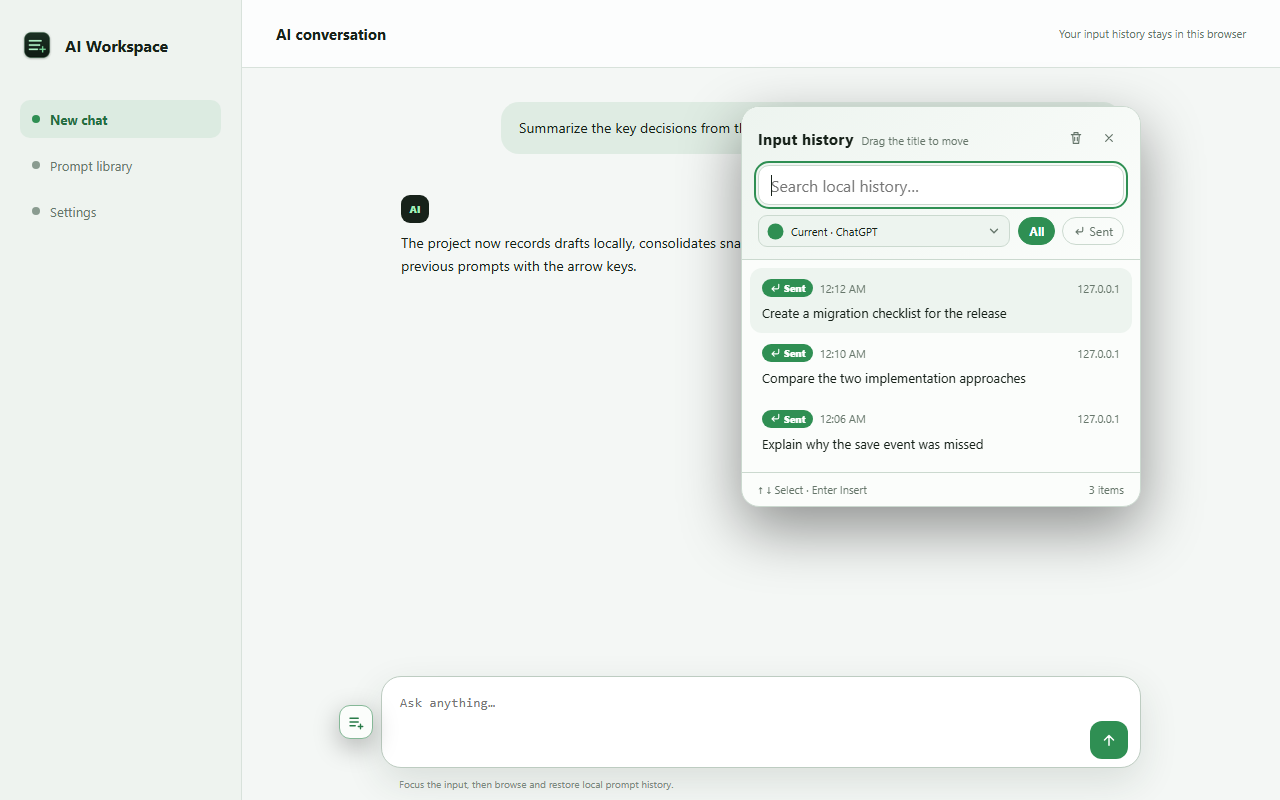
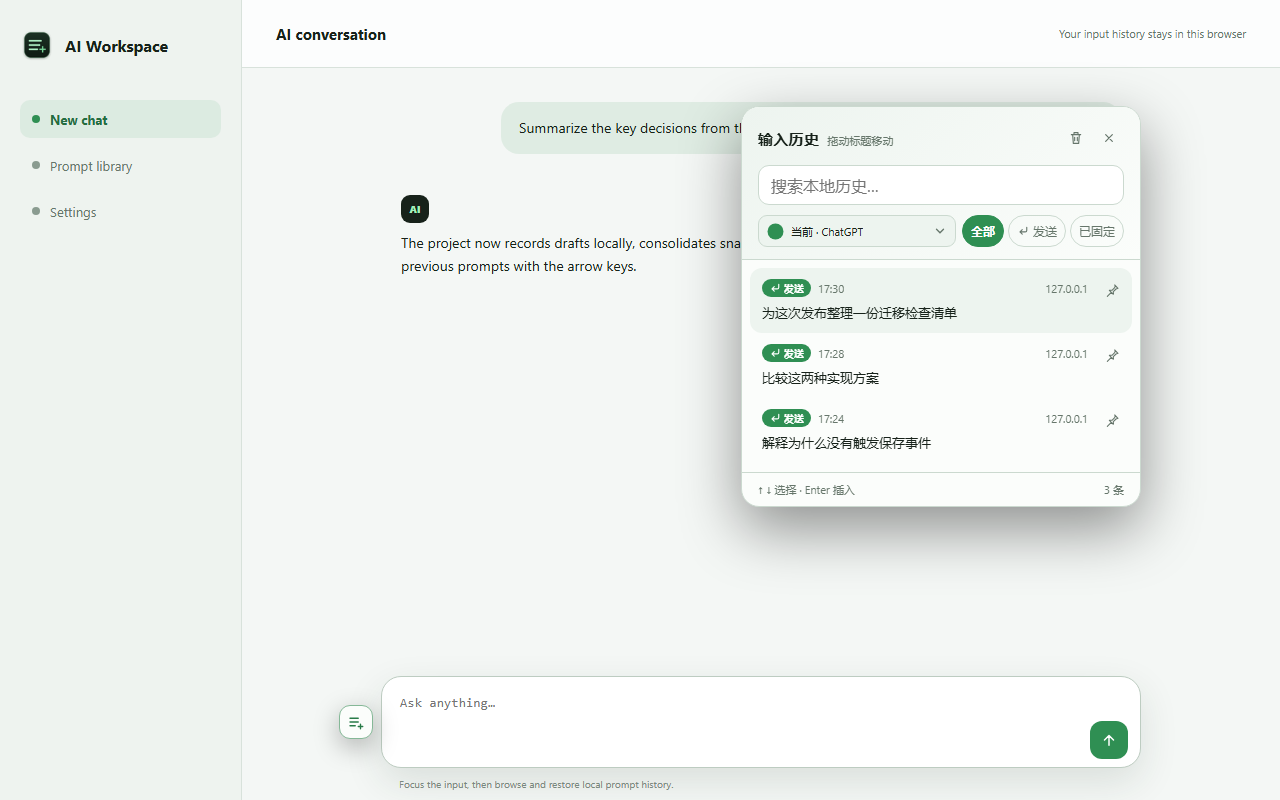
feat: 添加通知最低耗时并更新文档截图

diff --git a/tests/background-notification.test.js b/tests/background-notification.test.js
@@ -36,7 +36,7 @@ test("浏览器通知只包含截断后的问题摘要", async () => {
   const h = setup({ enabled: true, provider: "browser" });
   const result = await h.send({
     type: "AIH_REQUEST_COMPLETED",
-    event: { promptText: "这是一个需要在回复完成之后发送系统通知的很长很长的问题内容用于验证省略", durationMs: 1200, completedAt: Date.now() }
+    event: { promptText: "这是一个需要在回复完成之后发送系统通知的很长很长的问题内容用于验证省略", durationMs: 21_000, completedAt: Date.now() }
   });
   assert.equal(result.ok, true);
   assert.equal(h.notifications.length, 1);
@@ -60,7 +60,7 @@ test("请求计时按会话 URL 保存，换标签页重新打开仍可读取和
 
 test("第三方通知由后台发送且未开启时不会发送", async () => {
   const h = setup({ enabled: true, provider: "ntfy", ntfyUrl: "https://ntfy.sh", ntfyTopic: "my-topic" });
-  const result = await h.send({ type: "AIH_REQUEST_COMPLETED", event: { promptText: "处理完成", completedAt: Date.now(), durationMs: 2000 } });
+  const result = await h.send({ type: "AIH_REQUEST_COMPLETED", event: { promptText: "处理完成", completedAt: Date.now(), durationMs: 21_000 } });
   assert.equal(result.ok, true);
   assert.equal(h.requests.length, 1);
   assert.equal(h.requests[0].url, "https://ntfy.sh/my-topic");
@@ -68,7 +68,42 @@ test("第三方通知由后台发送且未开启时不会发送", async () => {
 
   const disabled = setup({ enabled: false, provider: "ntfy", ntfyUrl: "https://ntfy.sh", ntfyTopic: "my-topic" });
   const skipped = await disabled.send({ type: "AIH_REQUEST_COMPLETED", event: { promptText: "不会发送" } });
-  assert.equal(skipped.ok, false);
-  assert.match(skipped.error, /尚未开启|尚未保存/);
+  assert.equal(skipped.ok, true);
+  assert.equal(skipped.skipped, true);
+  assert.equal(skipped.reason, "disabled");
   assert.equal(disabled.requests.length, 0);
+});
+
+test("自动通知默认低于 20 秒跳过，达到阈值才发送", async () => {
+  const h = setup({ enabled: true, provider: "browser" });
+  const fast = await h.send({ type: "AIH_REQUEST_COMPLETED", event: { promptText: "快速回复", durationMs: 19_999, completedAt: Date.now() } });
+  assert.equal(fast.ok, true);
+  assert.equal(fast.skipped, true);
+  assert.equal(fast.reason, "below-min-duration");
+  assert.equal(fast.minDurationSeconds, 20);
+  assert.equal(h.notifications.length, 0);
+
+  const threshold = await h.send({ type: "AIH_REQUEST_COMPLETED", event: { promptText: "达到阈值", durationMs: 20_000, completedAt: Date.now() } });
+  assert.equal(threshold.ok, true);
+  assert.equal(h.notifications.length, 1);
+
+  const custom = setup({ enabled: true, provider: "browser", minDurationSeconds: 30 });
+  const customFast = await custom.send({ type: "AIH_REQUEST_COMPLETED", event: { promptText: "自定义阈值以下", durationMs: 29_999, completedAt: Date.now() } });
+  assert.equal(customFast.skipped, true);
+  assert.equal(custom.notifications.length, 0);
+  await custom.send({ type: "AIH_REQUEST_COMPLETED", event: { promptText: "自定义阈值边界", durationMs: 30_000, completedAt: Date.now() } });
+  assert.equal(custom.notifications.length, 1);
+});
+
+test("测试通知绕过最低耗时，但关闭总开关时仍拒绝发送", async () => {
+  const h = setup({ enabled: true, provider: "browser", minDurationSeconds: 120 });
+  const sent = await h.send({ type: "AIH_NOTIFICATION_TEST" });
+  assert.equal(sent.ok, true);
+  assert.equal(h.notifications.length, 1);
+
+  const disabled = setup({ enabled: false, provider: "browser", minDurationSeconds: 0 });
+  const rejected = await disabled.send({ type: "AIH_NOTIFICATION_TEST" });
+  assert.equal(rejected.ok, false);
+  assert.match(rejected.error, /尚未开启|尚未保存/);
+  assert.equal(disabled.notifications.length, 0);
 });

diff --git a/tests/popup-settings.test.js b/tests/popup-settings.test.js
@@ -43,7 +43,7 @@ function element() {
 test("修改自动快照秒数时无需关闭输入框即可立即保存", async () => {
   const elements = Object.fromEntries([
     "#historyLimit", "#sendLimit", "#snapshotSeconds", "#launcherEnabled", "#domainInput", "#trackRequestTime",
-    "#notifyEnabled", "#notifyProvider", "#testNotification", "#notifyBarkUrl", "#notifyServerChanKey", "#notifyPushPlusToken",
+    "#notifyEnabled", "#notifyProvider", "#notifyMinDurationSeconds", "#testNotification", "#notifyBarkUrl", "#notifyServerChanKey", "#notifyPushPlusToken",
     "#notifyNtfyUrl", "#notifyNtfyTopic", "#notifyGotifyUrl", "#notifyGotifyToken", "#notifyDingtalkWebhook", "#notifyFeishuWebhook", "#notifyWecomWebhook", "#notifyCustomMethod", "#notifyCustomUrl", "#notifyCustomHeaders", "#notifyCustomBody",
     "#domainList", "#domainForm", "#clear", "#status", "#totalCount", "#sendCount", "#draftCount",
     "#shortcutCapture", "#shortcutDisable", "#languageSelect", "#clearDialog", "#clearDialogError", "#cancelClear", "#confirmClear", "#extensionVersion"
@@ -54,7 +54,7 @@ test("修改自动快照秒数时无需关闭输入框即可立即保存", async
     async getSettings() {
       return {
         historyLimit: 100, sendLimit: 10, snapshotSeconds: 60, shortcut: "Ctrl+R", language: "zh-CN", launcherEnabled: true, trackRequestTime: false,
-        completionNotification: { enabled: false, provider: "browser", barkUrl: "", serverChanKey: "", pushPlusToken: "", ntfyUrl: "https://ntfy.sh", ntfyTopic: "", gotifyUrl: "", gotifyToken: "", dingtalkWebhook: "", feishuWebhook: "", wecomWebhook: "", customMethod: "POST", customUrl: "", customHeaders: "{}", customBody: '{"title":"{{title}}","message":"{{message}}"}' },
+        completionNotification: { enabled: false, provider: "browser", minDurationSeconds: 20, barkUrl: "", serverChanKey: "", pushPlusToken: "", ntfyUrl: "https://ntfy.sh", ntfyTopic: "", gotifyUrl: "", gotifyToken: "", dingtalkWebhook: "", feishuWebhook: "", wecomWebhook: "", customMethod: "POST", customUrl: "", customHeaders: "{}", customBody: '{"title":"{{title}}","message":"{{message}}"}' },
         customDomains: []
       };
     }
@@ -93,6 +93,8 @@ test("修改自动快照秒数时无需关闭输入框即可立即保存", async
   await vm.runInNewContext(source, context);
 
   assert.equal(elements["#notifyProvider"].disabled, true);
+  assert.equal(elements["#notifyMinDurationSeconds"].disabled, true);
+  assert.equal(elements["#notifyMinDurationSeconds"].value, 20);
   assert.equal(elements["#testNotification"].disabled, true);
   assert.equal(elements["#notifyNtfyUrl"].disabled, true);
 
@@ -131,13 +133,20 @@ test("修改自动快照秒数时无需关闭输入框即可立即保存", async
   assert.equal(saves.at(-1).completionNotification.enabled, true);
   assert.equal(saves.at(-1).completionNotification.provider, "browser");
   assert.equal(elements["#notifyProvider"].disabled, false);
+  assert.equal(elements["#notifyMinDurationSeconds"].disabled, false);
   assert.equal(elements["#testNotification"].disabled, false);
   assert.equal(elements["#notifyNtfyUrl"].disabled, false);
+
+  elements["#notifyMinDurationSeconds"].value = "30";
+  elements["#notifyMinDurationSeconds"].listeners.change();
+  await new Promise((resolve) => setImmediate(resolve));
+  assert.equal(saves.at(-1).completionNotification.minDurationSeconds, "30");
 
   elements["#notifyEnabled"].checked = false;
   elements["#notifyEnabled"].listeners.change();
   await new Promise((resolve) => setImmediate(resolve));
   assert.equal(elements["#notifyProvider"].disabled, true);
+  assert.equal(elements["#notifyMinDurationSeconds"].disabled, true);
   assert.equal(elements["#testNotification"].disabled, true);
   assert.equal(elements["#notifyNtfyUrl"].disabled, true);
 

diff --git a/src/i18n.js b/src/i18n.js
@@ -8,6 +8,7 @@
       "timing.running": "请求已等待 {seconds} 秒，点击打开输入历史", "timing.duration": "总耗时 {seconds} 秒", "timing.replyAt": "回复完成 {time}",
       "timing.pending": "尚未记录回复完成", "timing.cancelled": "计时已中止", "timing.failed": "请求异常", "timing.timeout": "未检测到回复完成",
       "notify.title": "回复完成通知", "notify.enable": "完成后发送通知", "notify.hint": "回复完成后通知；默认内容为问题前 32 个字",
+      "notify.minDuration": "通知最低耗时（秒）", "notify.minDurationHint": "低于此耗时不自动发送通知",
       "notify.provider": "通知方式", "notify.browser": "浏览器通知", "notify.dingtalk": "钉钉机器人", "notify.feishu": "飞书机器人", "notify.wecom": "企业微信机器人", "notify.custom": "自定义请求", "notify.browserHint": "使用系统通知，不发送到第三方。",
       "notify.method": "请求方法", "notify.variables": "模板变量：{{title}}、{{message}}、{{question}}、{{duration}}、{{completedAt}}、{{pageUrl}}",
       "notify.robotHint": "直接粘贴群机器人完整 Webhook 地址。Webhook 等同发送凭据，请勿公开。",
@@ -46,6 +47,7 @@
       "timing.running": "Waiting {seconds} seconds. Open input history", "timing.duration": "Total {seconds}s", "timing.replyAt": "Completed {time}",
       "timing.pending": "Reply completion not recorded", "timing.cancelled": "Timing stopped", "timing.failed": "Request error", "timing.timeout": "Reply completion not detected",
       "notify.title": "Completion notifications", "notify.enable": "Notify when completed", "notify.hint": "Notify after the reply finishes; body defaults to the first 32 characters of the prompt",
+      "notify.minDuration": "Minimum duration (seconds)", "notify.minDurationHint": "Replies faster than this do not trigger automatic notifications",
       "notify.provider": "Notification method", "notify.browser": "Browser notification", "notify.dingtalk": "DingTalk robot", "notify.feishu": "Feishu robot", "notify.wecom": "WeCom robot", "notify.custom": "Custom request", "notify.browserHint": "Uses the system notification service and sends nothing to a third party.",
       "notify.method": "Request method", "notify.variables": "Template variables: {{title}}, {{message}}, {{question}}, {{duration}}, {{completedAt}}, {{pageUrl}}",
       "notify.robotHint": "Paste the full group-robot Webhook URL. Treat it as a sending credential and do not publish it.",

diff --git a/background.js b/background.js
@@ -32,13 +32,14 @@ chrome.runtime.onMessage.addListener((message, sender, sendResponse) => {
   }
 
   if (message?.type === "AIH_REQUEST_COMPLETED" || message?.type === "AIH_NOTIFICATION_TEST") {
-    const event = message.type === "AIH_NOTIFICATION_TEST" ? {
+    const isTest = message.type === "AIH_NOTIFICATION_TEST";
+    const event = isTest ? {
       promptText: "这是一条 ChatGPT 回复完成测试通知",
       durationMs: 3200, completedAt: Date.now(), pageUrl: "https://chatgpt.com/"
     } : message.event;
-    deliverConfiguredNotification(event)
+    deliverConfiguredNotification(event, { ignoreMinimumDuration: isTest })
       .then((result) => {
-        if (result?.skipped) throw new Error("完成通知尚未开启或设置尚未保存");
+        if (isTest && result?.skipped) throw new Error("完成通知尚未开启或设置尚未保存");
         sendResponse({ ok: true, ...result });
       })
       .catch((error) => sendResponse({ ok: false, error: error?.message || String(error) }));
@@ -116,10 +117,15 @@ async function handleTimingSessionMessage(message) {
   return task;
 }
 
-async function deliverConfiguredNotification(event, force = false) {
+async function deliverConfiguredNotification(event, { ignoreMinimumDuration = false } = {}) {
   const settings = await storageGet("aiInputHistorySettings") || {};
   const config = settings.completionNotification || {};
-  if (!force && config.enabled !== true) return { skipped: true };
+  if (config.enabled !== true) return { skipped: true, reason: "disabled" };
+  const parsedMinimum = Number.parseInt(config.minDurationSeconds, 10);
+  const minDurationSeconds = Number.isFinite(parsedMinimum) ? Math.min(3600, Math.max(0, parsedMinimum)) : 20;
+  if (!ignoreMinimumDuration && Number.isFinite(event?.durationMs) && event.durationMs < minDurationSeconds * 1000) {
+    return { skipped: true, reason: "below-min-duration", minDurationSeconds };
+  }
   const model = globalThis.AIInputHistory?.notificationModel;
   if (!model) throw new Error("通知模块未加载");
   const delivery = model.buildDelivery(config, event || {}, settings.language);

diff --git a/popup/index.html b/popup/index.html
@@ -41,6 +41,7 @@
         <div class="notifications">
           <h3 data-i18n="notify.title">回复完成通知</h3>
           <div class="setting-row"><span><span data-i18n="notify.enable">完成后发送通知</span><small data-i18n="notify.hint">回复完成后通知；默认内容为问题前 32 个字</small></span><label class="switch"><input id="notifyEnabled" type="checkbox"><span aria-hidden="true"></span></label></div>
+      <label class="notify-row"><span><span data-i18n="notify.minDuration">通知最低耗时（秒）</span><small data-i18n="notify.minDurationHint">低于此耗时不自动发送通知</small></span><input id="notifyMinDurationSeconds" type="number" min="0" max="3600" step="1"></label>
       <label class="notify-row"><span data-i18n="notify.provider">通知方式</span><select id="notifyProvider"><option value="browser" data-i18n="notify.browser">浏览器通知</option><option value="bark">Bark</option><option value="serverchan">Server酱</option><option value="pushplus">PushPlus</option><option value="ntfy">ntfy</option><option value="gotify">Gotify</option><option value="dingtalk" data-i18n="notify.dingtalk">钉钉机器人</option><option value="feishu" data-i18n="notify.feishu">飞书机器人</option><option value="wecom" data-i18n="notify.wecom">企业微信机器人</option><option value="custom" data-i18n="notify.custom">自定义请求</option></select></label>
       <div id="notificationConfig" class="notification-config">
         <div data-notify-provider="browser"><p data-i18n="notify.browserHint">使用 Windows/macOS 浏览器系统通知，不发送到第三方。</p></div>

diff --git a/tests/history-store.test.js b/tests/history-store.test.js
@@ -75,10 +75,12 @@ test("设置值被限制在安全范围", () => {
   const settings = sanitizeSettings({ historyLimit: 9999, enterLimit: 0, snapshotMinutes: "5" });
   assert.deepEqual(JSON.parse(JSON.stringify(settings)), {
     historyLimit: 500, sendLimit: 1, snapshotSeconds: 300, shortcut: "Ctrl+R", language: "zh-CN", launcherEnabled: true, trackRequestTime: false,
-    completionNotification: { enabled: false, provider: "browser", barkUrl: "", serverChanKey: "", pushPlusToken: "", ntfyUrl: "https://ntfy.sh", ntfyTopic: "", gotifyUrl: "", gotifyToken: "", dingtalkWebhook: "", feishuWebhook: "", wecomWebhook: "", customMethod: "POST", customUrl: "", customHeaders: "{}", customBody: '{"title":"{{title}}","message":"{{message}}"}' },
+    completionNotification: { enabled: false, provider: "browser", minDurationSeconds: 20, barkUrl: "", serverChanKey: "", pushPlusToken: "", ntfyUrl: "https://ntfy.sh", ntfyTopic: "", gotifyUrl: "", gotifyToken: "", dingtalkWebhook: "", feishuWebhook: "", wecomWebhook: "", customMethod: "POST", customUrl: "", customHeaders: "{}", customBody: '{"title":"{{title}}","message":"{{message}}"}' },
     customDomains: []
   });
   assert.equal(sanitizeSettings({ snapshotSeconds: 5 }).snapshotSeconds, 5);
+  assert.equal(sanitizeSettings({ completionNotification: { minDurationSeconds: -5 } }).completionNotification.minDurationSeconds, 0);
+  assert.equal(sanitizeSettings({ completionNotification: { minDurationSeconds: 9999 } }).completionNotification.minDurationSeconds, 3600);
 });
 
 test("快捷键支持自定义、匹配和停用", () => {

diff --git a/popup/popup.js b/popup/popup.js
@@ -10,6 +10,7 @@
   const notifyProvider = document.querySelector("#notifyProvider");
   const testNotificationButton = document.querySelector("#testNotification");
   const notificationInputs = {
+    minDurationSeconds: "#notifyMinDurationSeconds",
     barkUrl: "#notifyBarkUrl", serverChanKey: "#notifyServerChanKey", pushPlusToken: "#notifyPushPlusToken",
     ntfyUrl: "#notifyNtfyUrl", ntfyTopic: "#notifyNtfyTopic", gotifyUrl: "#notifyGotifyUrl", gotifyToken: "#notifyGotifyToken",
     dingtalkWebhook: "#notifyDingtalkWebhook", feishuWebhook: "#notifyFeishuWebhook", wecomWebhook: "#notifyWecomWebhook",
@@ -115,6 +116,7 @@
     const value = (name) => document.querySelector(notificationInputs[name]).value;
     return {
       ...current, enabled: notifyToggle.checked, provider: notifyProvider.value,
+      minDurationSeconds: value("minDurationSeconds"),
       barkUrl: value("barkUrl"), serverChanKey: value("serverChanKey"), pushPlusToken: value("pushPlusToken"),
       ntfyUrl: value("ntfyUrl"), ntfyTopic: value("ntfyTopic"), gotifyUrl: value("gotifyUrl"), gotifyToken: value("gotifyToken"),
       dingtalkWebhook: value("dingtalkWebhook"), feishuWebhook: value("feishuWebhook"), wecomWebhook: value("wecomWebhook"),

diff --git a/src/history-store.js b/src/history-store.js
@@ -5,7 +5,7 @@
   const SETTINGS_KEY = "aiInputHistorySettings";
   const DEFAULT_SHORTCUT = "Ctrl+R";
   const DEFAULT_COMPLETION_NOTIFICATION = Object.freeze({
-    enabled: false, provider: "browser", barkUrl: "", serverChanKey: "", pushPlusToken: "",
+    enabled: false, provider: "browser", minDurationSeconds: 20, barkUrl: "", serverChanKey: "", pushPlusToken: "",
     ntfyUrl: "https://ntfy.sh", ntfyTopic: "", gotifyUrl: "", gotifyToken: "",
     dingtalkWebhook: "", feishuWebhook: "", wecomWebhook: "",
     customMethod: "POST", customUrl: "", customHeaders: "{}",
@@ -49,6 +49,7 @@
     return {
       enabled: source.enabled === true,
       provider: providers.has(source.provider) ? source.provider : DEFAULT_COMPLETION_NOTIFICATION.provider,
+      minDurationSeconds: clampInteger(source.minDurationSeconds, 0, 3600, DEFAULT_COMPLETION_NOTIFICATION.minDurationSeconds),
       barkUrl: text("barkUrl", 1000), serverChanKey: text("serverChanKey", 300), pushPlusToken: text("pushPlusToken", 300),
       ntfyUrl: text("ntfyUrl", 1000, DEFAULT_COMPLETION_NOTIFICATION.ntfyUrl), ntfyTopic: text("ntfyTopic", 300),
       gotifyUrl: text("gotifyUrl", 1000), gotifyToken: text("gotifyToken", 300),

diff --git a/popup/popup.css b/popup/popup.css
@@ -70,7 +70,7 @@ input:focus-visible,button:focus-visible { outline:2px solid var(--accent); outl
 .notify-template-help { display:block; padding:6px 0; line-height:1.5; overflow-wrap:anywhere; }
 .notify-actions { display:flex; justify-content:flex-end; padding-top:9px; }
 .notify-actions button { height:32px; border:1px solid var(--accent); border-radius:9px; padding:0 11px; background:transparent; color:var(--accent); cursor:pointer; font-size:10px; }
-.notify-row select:disabled,.notification-config input:disabled,.notification-config select:disabled,.notification-config textarea:disabled,.notify-actions button:disabled { opacity:.5; cursor:not-allowed; }
+.notify-row input:disabled,.notify-row select:disabled,.notification-config input:disabled,.notification-config select:disabled,.notification-config textarea:disabled,.notify-actions button:disabled { opacity:.5; cursor:not-allowed; }
 #status { min-height:29px; padding-top:10px; color:var(--accent); font-size:11px; }
 .domains { border-top:1px solid var(--line); margin-top:14px; } .domains>p { margin:0 0 10px; line-height:1.5; }
 #domainForm { display:flex; gap:7px; }

diff --git a/README.md b/README.md
@@ -4,16 +4,20 @@
 
 ## 扩展截图
 
-以下截图展示扩展在演示聊天页面中的历史面板，使用示例数据，不包含真实聊天内容。截图为早期版本，最新版本另支持固定消息。
+以下截图由项目内置演示页和真实设置页自动生成，使用示例数据，不包含真实聊天内容。
 
 ### 中文界面
 
-![中文输入历史面板：本地搜索、网站筛选和发送记录](store-assets/screenshot-zh-CN-1280x800.png)
+![中文输入历史面板：本地搜索、网站筛选、发送记录和固定消息](store-assets/screenshot-zh-CN-1280x800.png)
+
+![ChatGPT 专属设置：请求耗时、回复完成通知和 20 秒最低通知耗时](store-assets/screenshot-settings-zh-CN-1280x800.png)
 
 <details>
 <summary>查看英文界面</summary>
 
-![英文输入历史面板：本地搜索、网站筛选和发送记录](store-assets/screenshot-en-1280x800.png)
+![英文输入历史面板：本地搜索、网站筛选、发送记录和固定消息](store-assets/screenshot-en-1280x800.png)
+
+![ChatGPT-only settings: request timing, completion notifications, and minimum notification duration](store-assets/screenshot-settings-en-1280x800.png)
 
 </details>
 
@@ -34,7 +38,7 @@
 - 默认在输入框中按 `Ctrl+R` 打开历史；面板内用上下键选择、Enter 插入、Esc 关闭。
 - 输入框内直接按上/下键会像 Chrome DevTools Console 一样切换历史，向下越过最新记录后恢复切换前的文本。
 - 扩展弹窗可调整历史上限、发送记录上限和自动快照间隔，并可在中英文之间即时切换。
-- ChatGPT 回复完成通知默认关闭；可选择浏览器系统通知、Bark、Server酱、PushPlus、ntfy、Gotify、钉钉机器人、飞书机器人、企业微信机器人，或配置自定义 HTTP 请求。默认通知正文只取问题前 32 个字符，纯图片/附件请求使用专用提示。
+- ChatGPT 回复完成通知默认关闭；可选择浏览器系统通知、Bark、Server酱、PushPlus、ntfy、Gotify、钉钉机器人、飞书机器人、企业微信机器人，或配置自定义 HTTP 请求。默认通知最低耗时为 20 秒，低于阈值的快速回复不会自动通知；测试通知不受该阈值限制。默认通知正文只取问题前 32 个字符，纯图片/附件请求使用专用提示。
 - 页面面板和扩展设置页都能清空未固定历史，固定消息会保留；删除前显示确认弹窗。
 
 ## 安装
@@ -52,7 +56,7 @@
 
 ## ChatGPT 回复完成通知
 
-在扩展设置中开启“完成后发送通知”后，ChatGPT Web 确认一轮回复正常完成时才发送通知。默认正文为本次问题前 32 个字符，超出部分用 `…` 省略；纯图片或附件请求使用“图片或附件请求”。取消生成、失败、超时或切换对话不会发送完成通知。
+在扩展设置中开启“完成后发送通知”后，ChatGPT Web 确认一轮回复正常完成时才发送通知。通知最低耗时默认 20 秒：回复总耗时低于阈值时自动通知会被跳过，达到或超过阈值才发送；可在设置中调整为 0–3600 秒，设为 0 表示不按耗时过滤。测试通知始终绕过最低耗时，用于单独验证通知渠道。默认正文为本次问题前 32 个字符，超出部分用 `…` 省略；纯图片或附件请求使用“图片或附件请求”。取消生成、失败、超时或切换对话不会发送完成通知。
 
 内置支持浏览器系统通知、Bark、Server酱、PushPlus、ntfy、Gotify、钉钉机器人、飞书机器人和企业微信机器人；也支持自定义 HTTP 请求。三个企业群机器人直接粘贴完整 Webhook URL 即可。自定义请求可使用 `{{title}}`、`{{message}}`、`{{question}}`、`{{duration}}`、`{{completedAt}}`、`{{pageUrl}}` 模板变量。完整配置见 [回复完成通知说明](docs/completion-notifications.md)。
 
@@ -80,7 +84,13 @@ npm run build
 
 ## Chrome Web Store 发布
 
-商店图标、宣传图、双语实际界面截图、商店文案、隐私政策和提交检查清单位于 `store-assets/`。重新生成图标和宣传图：
+商店图标、宣传图、双语实际界面截图、商店文案、隐私政策和提交检查清单位于 `store-assets/`。重新生成双语历史面板与 ChatGPT 专属设置截图：
+
+```powershell
+npm run screenshots:store
+```
+
+重新生成图标和宣传图：
 
 ```powershell
 npm run assets:store

diff --git a/store-assets/submission-checklist.md b/store-assets/submission-checklist.md
@@ -2,12 +2,14 @@
 
 ## 已准备文件
 
-- 扩展上传包：`dist/ai-input-history-1.23.0.zip`
+- 扩展上传包：`dist/ai-input-history-1.29.2.zip`
 - 商店图标：`store-assets/store-icon-128.png`
 - 小型宣传图：`store-assets/promo-small-440x280.png`
 - Marquee 宣传图：`store-assets/promo-marquee-1400x560.png`
-- 英文截图：`store-assets/screenshot-en-1280x800.png`
-- 中文截图：`store-assets/screenshot-zh-CN-1280x800.png`
+- 英文历史面板截图：`store-assets/screenshot-en-1280x800.png`
+- 中文历史面板截图：`store-assets/screenshot-zh-CN-1280x800.png`
+- 英文 ChatGPT 设置截图：`store-assets/screenshot-settings-en-1280x800.png`
+- 中文 ChatGPT 设置截图：`store-assets/screenshot-settings-zh-CN-1280x800.png`
 - 中文文案：`store-assets/listing-zh-CN.md`
 - 英文文案：`store-assets/listing-en.md`
 - 双语隐私政策：`store-assets/privacy-policy.md`
@@ -21,6 +23,10 @@ Save and restore text the user enters into AI chat composers using browser-local
 ### `storage` 权限说明
 
 Stores user-created prompt history, drafts, settings, cached site icons, and floating-interface positions locally in the browser. No history is sent to a developer server.
+
+### `notifications` 权限说明
+
+Used only when the user explicitly enables the “response completion notification” feature. The extension uses the browser notification API to show a local notification after an AI response has finished. It is not used for advertising, marketing, tracking, or unsolicited notifications.
 
 ### 网站访问权限说明
 

diff --git a/docs/completion-notifications.md b/docs/completion-notifications.md
@@ -2,7 +2,13 @@
 
 AI Input History 可以在 ChatGPT Web 的一轮回复确认完成后发送通知。该功能默认关闭，与“跟踪请求耗时”开关相互独立：你可以只开启通知而不在历史记录中显示耗时。
 
-通知只在扩展确认本轮回复正常完成时触发。取消生成、请求异常、切换到其他已有对话、超时或页面被关闭时不会发送“完成”通知。
+通知只在扩展确认本轮回复正常完成时触发。默认还会要求本轮总耗时达到 20 秒；低于最低耗时的快速回复会正常完成计时和历史记录，但不会自动发送通知。取消生成、请求异常、切换到其他已有对话、超时或页面被关闭时不会发送“完成”通知。
+
+## 通知最低耗时
+
+“通知最低耗时（秒）”默认值为 `20`，可设置为 `0–3600` 秒。自动完成通知只有在 `durationMs >= 最低耗时 × 1000` 时才会发送；例如默认设置下 `19.999s` 不通知，`20.000s` 会通知。设置为 `0` 表示不按耗时过滤。
+
+这个阈值只影响自动完成通知，不影响请求耗时记录、历史记录或回复完成检测。设置页的“发送测试通知”会绕过最低耗时，以便独立验证浏览器权限、Webhook、Token 或自定义 HTTP 配置是否可用。
 
 ## 默认通知内容
 
